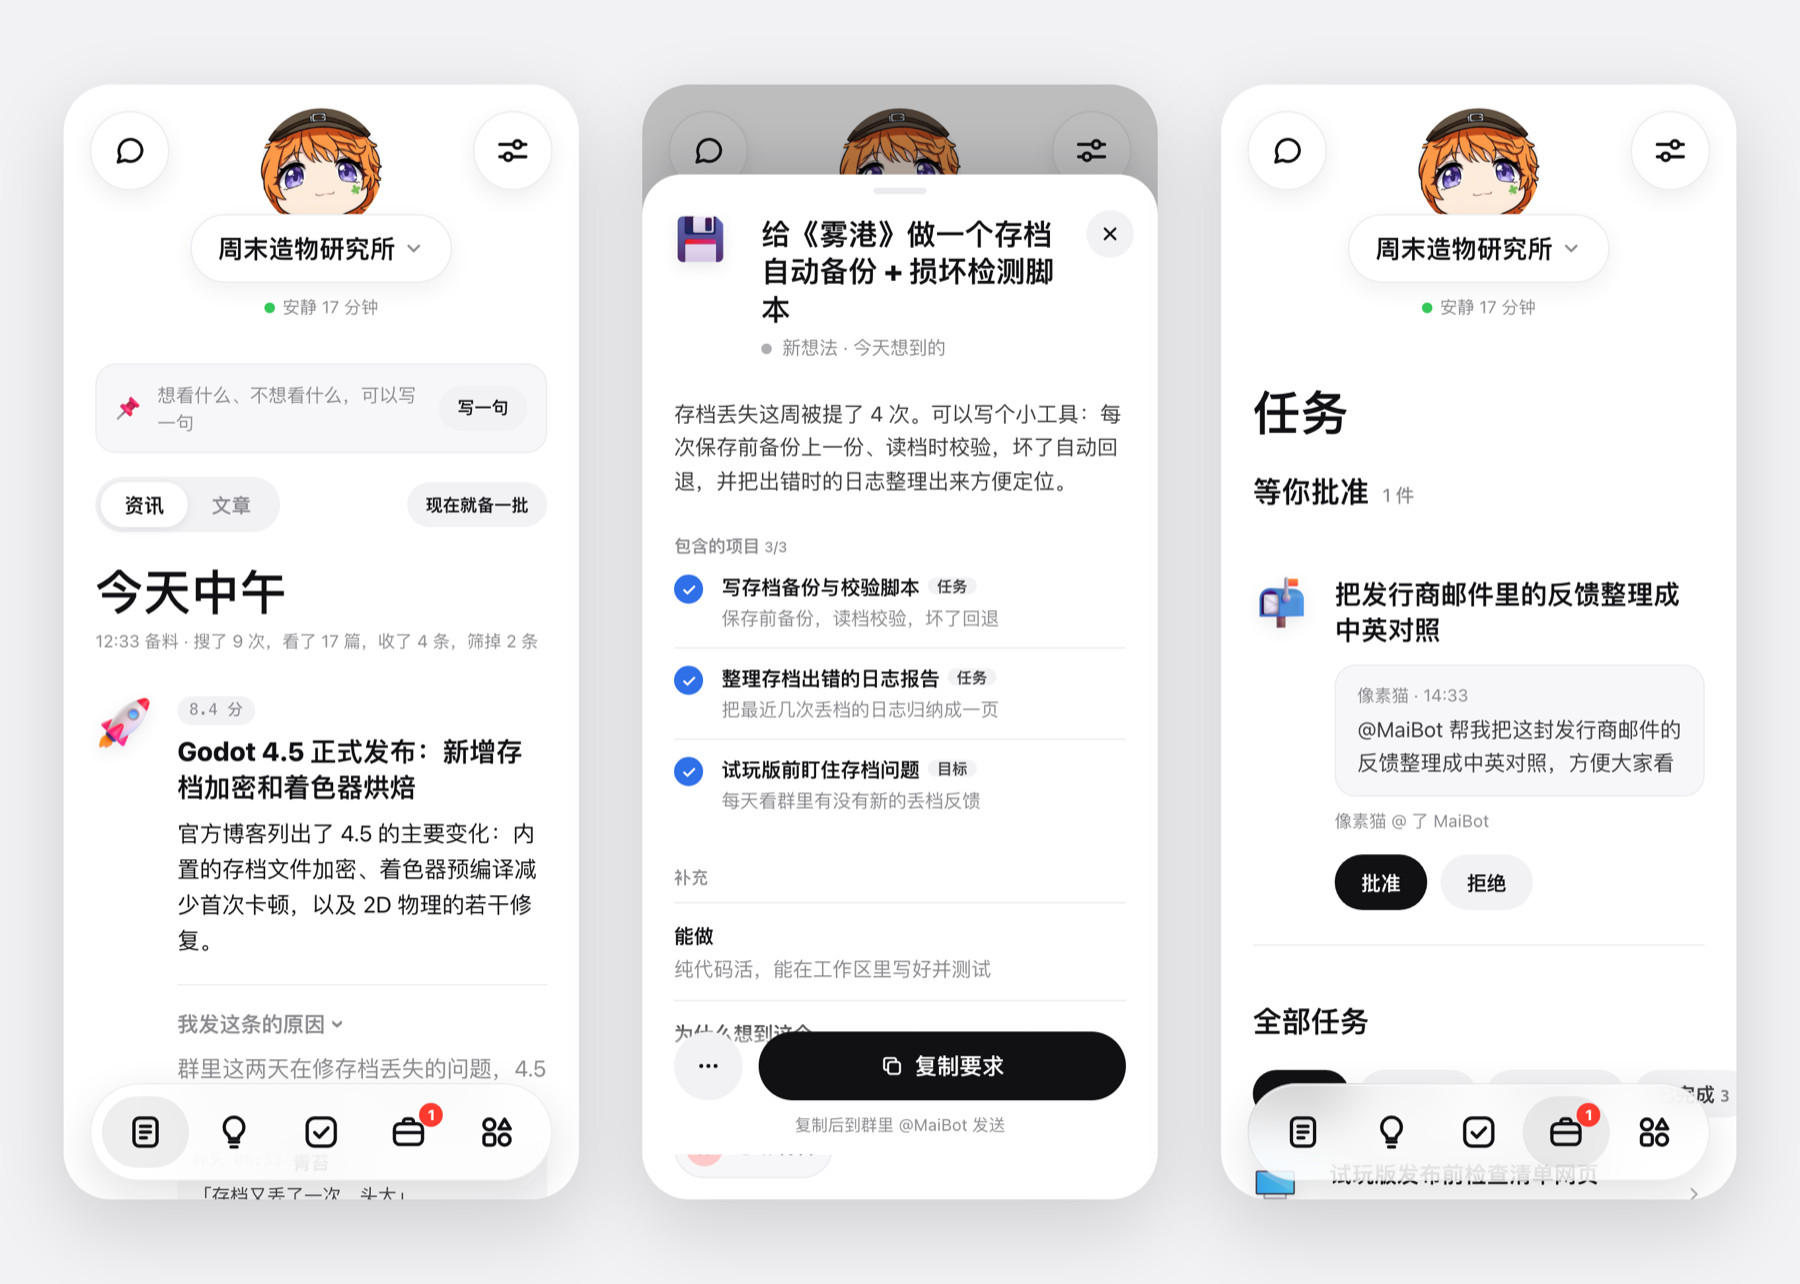
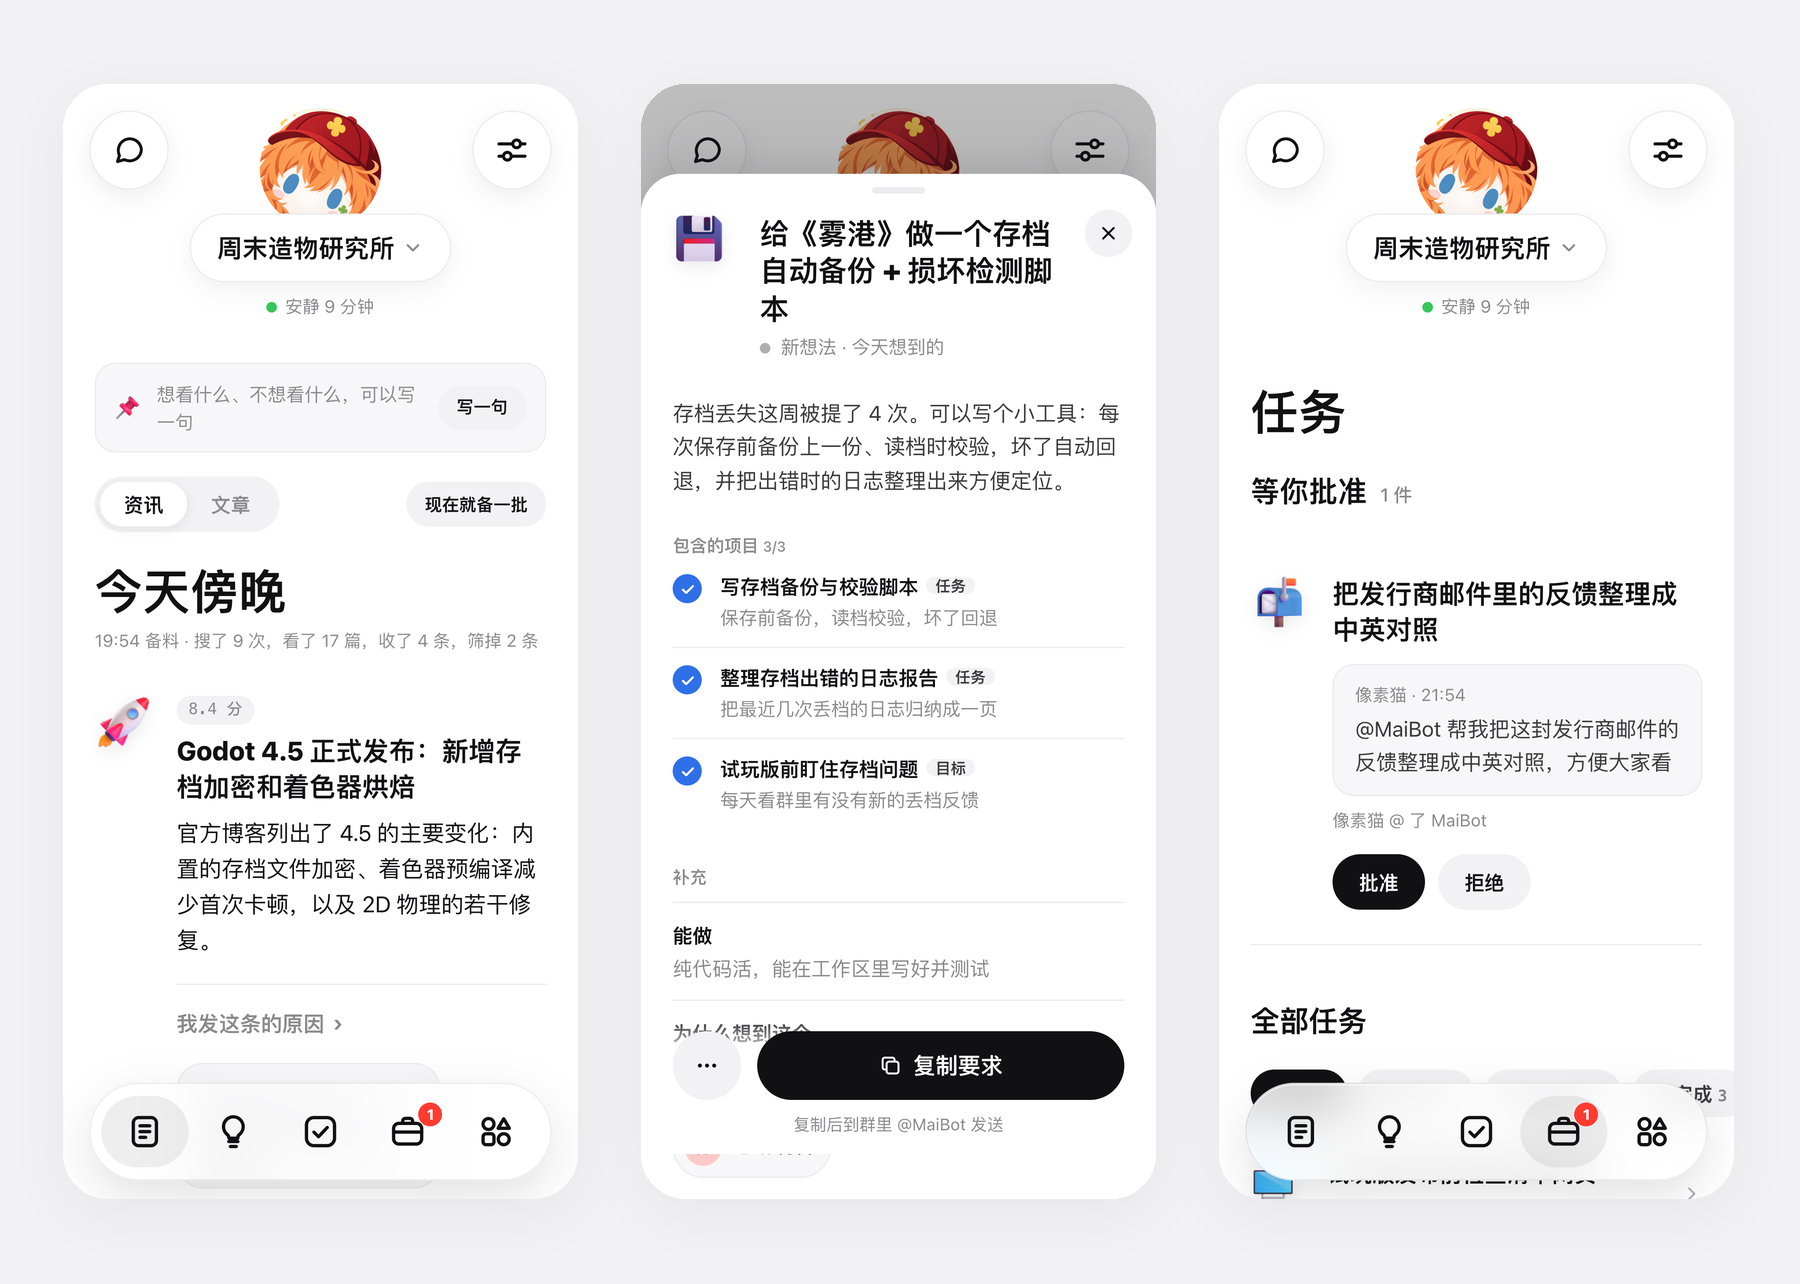
README 截图重拍、加「界面一览」；运行状态图标与布局小修

diff --git a/maiwork/console/static/app.js b/maiwork/console/static/app.js
@@ -1275,7 +1275,7 @@
       }
       <p class="fine">${alert ? `每日提醒线 ${tokens(alert)} tokens，今天用了 ${Math.round((used / alert) * 100)}%。` : "没设提醒线。"}${u.errors ? ` 今天有 ${u.errors} 次调用出错。` : ""}</p>
       <h2 class="h-sub">运行状态</h2>
-      ${(s.health || []).map((h) => `<div class="set-row">${ico(h.icon || "gear")}<div><div class="set-name">${esc(h.name)}</div><div class="set-text">${esc(h.text)}</div>${h.copy ? `<div class="set-text mono-link">${esc(h.copy)}</div>` : ""}</div>${h.copy ? `<button class="btn small" data-act="copy" data-link="${esc(h.copy)}" data-what="公钥">复制公钥</button>` : ""}<span class="dot ${h.state === "ok" ? "ok" : h.state === "warn" ? "pending" : ""}"></span></div>`).join("")}
+      ${(s.health || []).map((h) => `<div class="set-row">${ico(h.icon || "gear")}<div><div class="set-name">${esc(h.name)}</div><div class="set-text">${esc(h.text)}</div>${h.copy ? `<div class="set-text mono-link">${esc(h.copy)}</div><div class="actions" style="margin-top:8px"><button class="btn small" data-act="copy" data-link="${esc(h.copy)}" data-what="公钥">复制公钥</button></div>` : ""}</div><span class="dot ${h.state === "ok" ? "ok" : h.state === "warn" ? "pending" : ""}"></span></div>`).join("")}
       <div class="actions" style="margin-top:22px"><button class="btn" data-act="onb-restart">重新引导</button><button class="btn" data-act="logout">退出管理员</button></div>`;
   }
 

diff --git a/maiwork/console/views.py b/maiwork/console/views.py
@@ -787,13 +787,13 @@ def _search_health(svc: Any) -> dict[str, Any]:
     """
     search = getattr(svc, "search", None)
     if search is None:
-        return {"key": "search", "icon": "search", "name": "搜索", "state": "warn",
+        return {"key": "search", "icon": "magnifier", "name": "搜索", "state": "warn",
                 "text": "还没选：去「设置 → 扩展」选一个"}
     try:
         ok, text = search.status()
     except Exception:
         ok, text = False, "搜索状态读不出来（扩展还没就位？）"
-    return {"key": "search", "icon": "search", "name": "搜索", "state": "ok" if ok else "warn", "text": text}
+    return {"key": "search", "icon": "magnifier", "name": "搜索", "state": "ok" if ok else "warn", "text": text}
 
 
 def _ssh_health(svc: Any) -> dict[str, Any] | None:
@@ -806,7 +806,7 @@ def _ssh_health(svc: Any) -> dict[str, Any] | None:
     ssh = getattr(svc, "ssh", None)
     if ssh is None:
         return None
-    base = {"key": "ssh", "icon": "server", "name": "专用机器"}
+    base = {"key": "ssh", "icon": "monitor", "name": "专用机器"}
     try:
         pub = str(ssh.public_key() or "")
     except Exception:
@@ -891,7 +891,7 @@ def _groupspace_health(svc: Any) -> dict[str, Any]:
     - 适配器开放了（探测到新版接口）→ ok「能管群文件 / 公告 / 相册（按群看身份）」；
     - 没开放（旧版 0.8.5）→ warn「QQ 适配器是旧版…升级到 v1.0.1 后自动开放」。
     """
-    base = {"key": "group_space", "icon": "folder", "name": "群空间"}
+    base = {"key": "group_space", "icon": "filebox", "name": "群空间"}
     gs = getattr(svc, "group_space", None)
     if gs is None:
         return {**base, "state": "off", "text": "已关闭"}

diff --git a/tests/test_app_ssh.py b/tests/test_app_ssh.py
@@ -115,3 +115,13 @@ def test_health_ok_and_warn() -> None:
 
 def test_health_none_when_no_ssh_env() -> None:
     assert _ssh_health(types.SimpleNamespace(ssh=None, get_settings=lambda: None)) is None
+
+
+def test_health_icons_exist_in_icon_set() -> None:
+    """运行状态各项的图标都得是 static/assets/icons 里真有的（不然前端回落成星星）。"""
+    import re
+
+    icons = {p.stem for p in (Path(__file__).resolve().parents[1] / "maiwork" / "console" / "static" / "assets" / "icons").glob("*.png")}
+    src = (Path(__file__).resolve().parents[1] / "maiwork" / "console" / "views.py").read_text(encoding="utf-8")
+    used = set(re.findall(r'"key": "[a-z_]+", "icon": "([a-z]+)"', src))
+    assert used and used <= icons, used - icons

diff --git a/README.md b/README.md
@@ -13,7 +13,7 @@
 [![Stars](https://img.shields.io/github/stars/CharTyr/MaiWork)](https://github.com/CharTyr/MaiWork/stargazers)
 [![Issues](https://img.shields.io/github/issues/CharTyr/MaiWork)](https://github.com/CharTyr/MaiWork/issues)
 
-[核心特性](#核心特性) • [功能概览](#功能概览) • [运行环境](#运行环境) • [专用机器](#专用机器自己的-vps--vm可以配多台) • [快速开始](#快速开始) • [配置项说明](#配置项说明) • [指令](#指令) • [安全与公开范围](#安全与公开范围) • [常见问题](#常见问题)
+[核心特性](#核心特性) • [功能概览](#功能概览) • [界面一览](#界面一览) • [运行环境](#运行环境) • [专用机器](#专用机器自己的-vps--vm可以配多台) • [快速开始](#快速开始) • [配置项说明](#配置项说明) • [指令](#指令) • [安全与公开范围](#安全与公开范围) • [常见问题](#常见问题)
 
 **在线看网页演示：[dewy-vow-gebh.here.now](https://dewy-vow-gebh.here.now/)**
 
@@ -24,8 +24,7 @@
 > 基本功能已完成，仍在持续迭代。
 
 <div align="center">
-<img src="docs/images/news.png" width="68%" alt="资讯页" />
-<img src="docs/images/mobile.png" width="24%" alt="手机端" />
+<img src="docs/images/news.png" width="92%" alt="资讯页" />
 </div>
 
 ---
@@ -67,6 +66,28 @@
 - **群**：MaiWork 眼里这个群的样子（群画像、关注成员），管理员可以改。
 - **和 MaiWork 聊**：管理员直接问进度、提要求、调整做法。
 - **设置**：模型、群、派活批准、推送节奏、扩展（MCP 和 skill）、干活用的机器等。
+
+---
+
+## 界面一览
+
+<table>
+<tr>
+<td width="50%"><img src="docs/images/ideas.png" alt="构想" /><br /><sub><b>构想</b>：从群聊里想到「可以帮你们做这个」，写清包含哪几件事</sub></td>
+<td width="50%"><img src="docs/images/task-delivered.png" alt="任务" /><br /><sub><b>任务</b>：等批准、进行中、交付；每一步谁做了什么都看得到</sub></td>
+</tr>
+<tr>
+<td width="50%"><img src="docs/images/chat.png" alt="和 MaiWork 聊" /><br /><sub><b>和 MaiWork 聊</b>：管理员直接问进度、提要求</sub></td>
+<td width="50%"><img src="docs/images/settings.png" alt="设置" /><br /><sub><b>运行状态</b>：模型、搜索、本机干活、专用机器、一次性 VM 一眼看清</sub></td>
+</tr>
+</table>
+
+<div align="center">
+<img src="docs/images/mobile.png" width="92%" alt="手机端" />
+<br /><sub>手机上也能用：资讯、构想详情、任务批准</sub>
+</div>
+
+截图来自[在线演示](https://dewy-vow-gebh.here.now/)，群、成员和内容都是虚构的。
 
 ---
 
